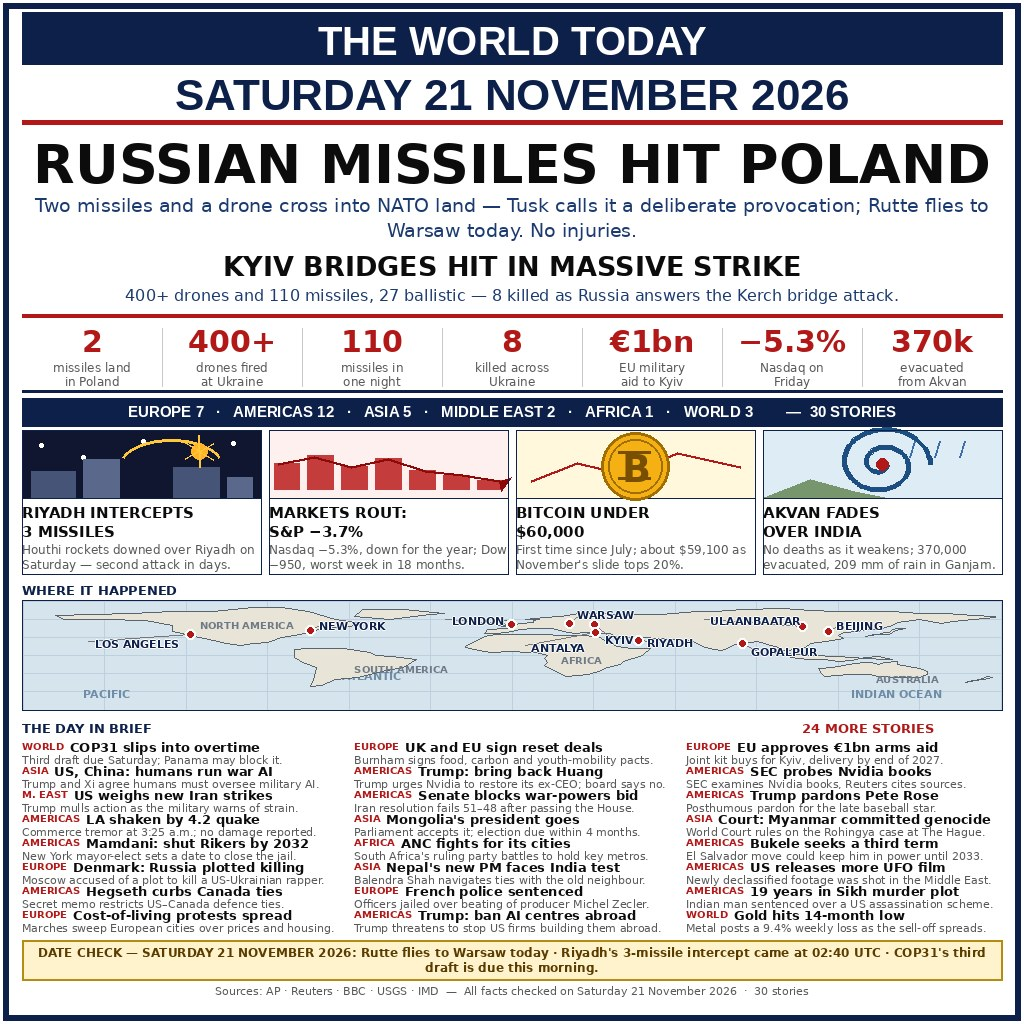
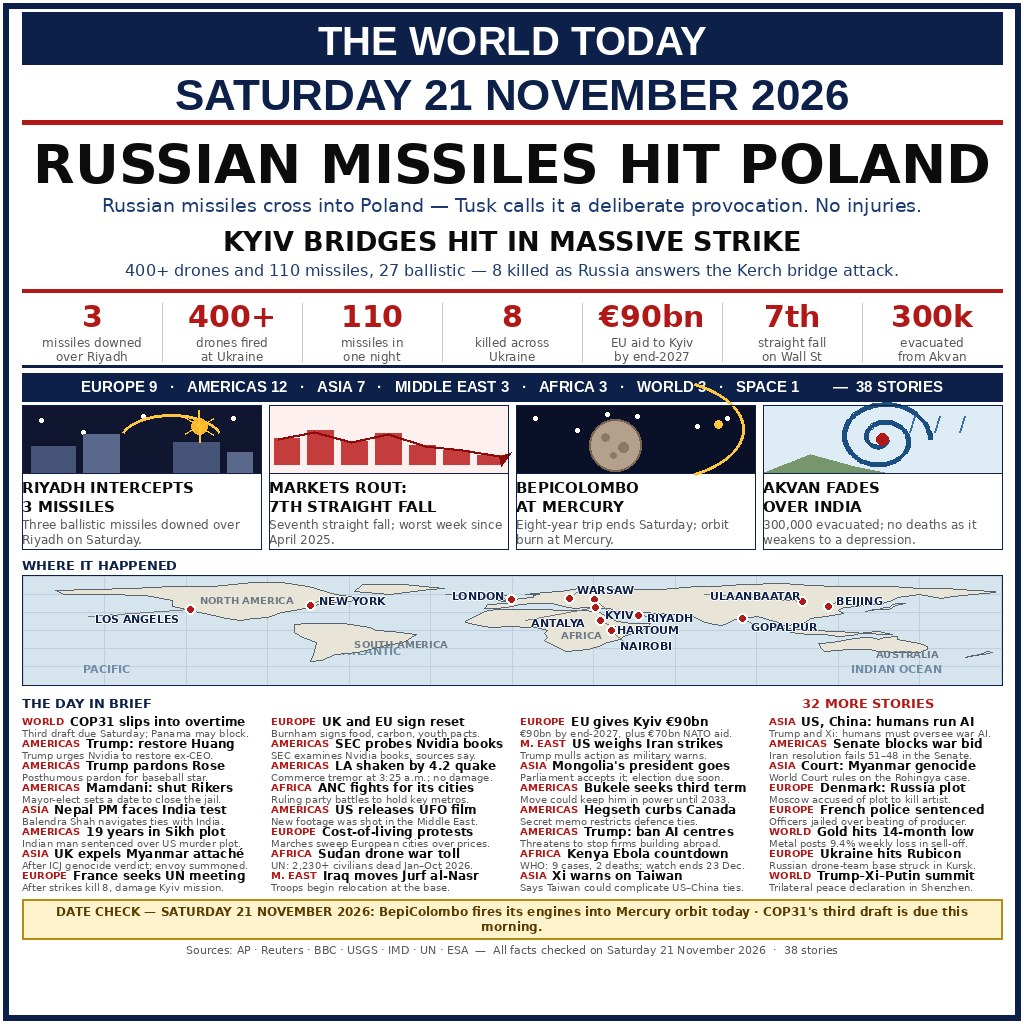
Saturday 21 November 2026: 38 stories, seven regions — Russian missiles hit Poland, Kyiv bridges struck, Riyadh intercepts, BepiColombo at Mercury

diff --git a/build_front.py b/build_front.py
@@ -44,98 +44,114 @@ SR = lambda s: font(LDIR + "LiberationSans-Regular.ttf", s)
 # ---------------------------------------------------------------- data
 
 HERO = ["RUSSIAN MISSILES HIT POLAND"]
-HERO_DECK = ("Two missiles and a drone cross into NATO land \u2014 Tusk calls it a deliberate "
-              "provocation; Rutte flies to Warsaw today. No injuries.")
+HERO_DECK = ("Russian missiles cross into Poland \u2014 Tusk calls it a deliberate "
+              "provocation. No injuries.")
 SUBHERO = "KYIV BRIDGES HIT IN MASSIVE STRIKE"
 SUBHERO_DECK = ("400+ drones and 110 missiles, 27 ballistic \u2014 8 killed as Russia answers "
                  "the Kerch bridge attack.")
 
 NUMBERS = [
-    ("2", "missiles land\nin Poland"),
+    ("3", "missiles downed\nover Riyadh"),
     ("400+", "drones fired\nat Ukraine"),
     ("110", "missiles in\none night"),
     ("8", "killed across\nUkraine"),
-    ("\u20ac1bn", "EU military\naid to Kyiv"),
-    ("\u22125.3%", "Nasdaq on\nFriday"),
-    ("370k", "evacuated\nfrom Akvan"),
+    ("\u20ac90bn", "EU aid to Kyiv\nby end-2027"),
+    ("7th", "straight fall\non Wall St"),
+    ("300k", "evacuated\nfrom Akvan"),
 ]
 
-REGIONS = [("EUROPE", 7), ("AMERICAS", 12), ("ASIA", 5),
-           ("MIDDLE EAST", 2), ("AFRICA", 1), ("WORLD", 3)]
-TOTAL_STORIES = 30  # 2 heroes + 4 features + 24 briefs
+REGIONS = [("EUROPE", 9), ("AMERICAS", 12), ("ASIA", 7),
+           ("MIDDLE EAST", 3), ("AFRICA", 3), ("WORLD", 3), ("SPACE", 1)]
+TOTAL_STORIES = 38  # 2 heroes + 4 features + 32 briefs
 
 FEATURES = [
     ("RIYADH INTERCEPTS\n3 MISSILES",
-     "Houthi rockets downed over Riyadh on Saturday \u2014 second attack in days.",
+     "Three ballistic missiles downed over Riyadh on Saturday.",
      "riyadh"),
-    ("MARKETS ROUT:\nS&P \u22123.7%",
-     "Nasdaq \u22125.3%, down for the year; Dow \u2212950, worst week in 18 months.",
+    ("MARKETS ROUT:\n7TH STRAIGHT FALL",
+     "Seventh straight fall; worst week since April 2025.",
      "markets"),
-    ("BITCOIN UNDER\n$60,000",
-     "First time since July; about $59,100 as November's slide tops 20%.",
-     "bitcoin"),
+    ("BEPICOLOMBO\nAT MERCURY",
+     "Eight-year trip ends Saturday; orbit burn at Mercury.",
+     "space"),
     ("AKVAN FADES\nOVER INDIA",
-     "No deaths as it weakens; 370,000 evacuated, 209 mm of rain in Ganjam.",
+     "300,000 evacuated; no deaths as it weakens to a depression.",
      "cyclone"),
 ]
 
-# (headline, deck, region) — 24 briefs, one story each.
+# (headline, deck, region) — 32 briefs, one story each.
 BRIEFS = [
     ("COP31 slips into overtime",
-     "Third draft due Saturday; Panama may block it.", "WORLD"),
-    ("UK and EU sign reset deals",
-     "Burnham signs food, carbon and youth-mobility pacts.", "EUROPE"),
-    ("EU approves \u20ac1bn arms aid",
-     "Joint kit buys for Kyiv, delivery by end of 2027.", "EUROPE"),
-    ("US, China: humans run war AI",
-     "Trump and Xi agree humans must oversee military AI.", "ASIA"),
-    ("Trump: bring back Huang",
-     "Trump urges Nvidia to restore its ex-CEO; board says no.", "AMERICAS"),
+     "Third draft due Saturday; Panama may block.", "WORLD"),
+    ("UK and EU sign reset",
+     "Burnham signs food, carbon, youth pacts.", "EUROPE"),
+    ("EU gives Kyiv \u20ac90bn",
+     "\u20ac90bn by end-2027, plus \u20ac70bn NATO aid.", "EUROPE"),
+    ("US, China: humans run AI",
+     "Trump and Xi: humans must oversee war AI.", "ASIA"),
+    ("Trump: restore Huang",
+     "Trump urges Nvidia to restore ex-CEO.", "AMERICAS"),
     ("SEC probes Nvidia books",
-     "SEC examines Nvidia books, Reuters cites sources.", "AMERICAS"),
-    ("US weighs new Iran strikes",
-     "Trump mulls action as the military warns of strain.", "M. EAST"),
-    ("Senate blocks war-powers bid",
-     "Iran resolution fails 51\u201348 after passing the House.", "AMERICAS"),
-    ("Trump pardons Pete Rose",
-     "Posthumous pardon for the late baseball star.", "AMERICAS"),
+     "SEC examines Nvidia books, sources say.", "AMERICAS"),
+    ("US weighs Iran strikes",
+     "Trump mulls action as military warns.", "M. EAST"),
+    ("Senate blocks war bid",
+     "Iran resolution fails 51\u201348 in the Senate.", "AMERICAS"),
+    ("Trump pardons Rose",
+     "Posthumous pardon for baseball star.", "AMERICAS"),
     ("LA shaken by 4.2 quake",
-     "Commerce tremor at 3:25 a.m.; no damage reported.", "AMERICAS"),
+     "Commerce tremor at 3:25 a.m.; no damage.", "AMERICAS"),
     ("Mongolia's president goes",
-     "Parliament accepts it; election due within 4 months.", "ASIA"),
-    ("Court: Myanmar committed genocide",
-     "World Court rules on the Rohingya case at The Hague.", "ASIA"),
-    ("Mamdani: shut Rikers by 2032",
-     "New York mayor-elect sets a date to close the jail.", "AMERICAS"),
+     "Parliament accepts it; election due soon.", "ASIA"),
+    ("Court: Myanmar genocide",
+     "World Court rules on the Rohingya case.", "ASIA"),
+    ("Mamdani: shut Rikers",
+     "Mayor-elect sets a date to close the jail.", "AMERICAS"),
     ("ANC fights for its cities",
-     "South Africa's ruling party battles to hold key metros.", "AFRICA"),
-    ("Bukele seeks a third term",
-     "El Salvador move could keep him in power until 2033.", "AMERICAS"),
-    ("Denmark: Russia plotted killing",
-     "Moscow accused of a plot to kill a US-Ukrainian rapper.", "EUROPE"),
-    ("Nepal's new PM faces India test",
-     "Balendra Shah navigates ties with the old neighbour.", "ASIA"),
-    ("US releases more UFO film",
-     "Newly declassified footage was shot in the Middle East.", "AMERICAS"),
-    ("Hegseth curbs Canada ties",
-     "Secret memo restricts US\u2013Canada defence ties.", "AMERICAS"),
+     "Ruling party battles to hold key metros.", "AFRICA"),
+    ("Bukele seeks third term",
+     "Move could keep him in power until 2033.", "AMERICAS"),
+    ("Denmark: Russia plot",
+     "Moscow accused of plot to kill artist.", "EUROPE"),
+    ("Nepal PM faces India test",
+     "Balendra Shah navigates ties with India.", "ASIA"),
+    ("US releases UFO film",
+     "New footage was shot in the Middle East.", "AMERICAS"),
+    ("Hegseth curbs Canada",
+     "Secret memo restricts defence ties.", "AMERICAS"),
     ("French police sentenced",
-     "Officers jailed over beating of producer Michel Zecler.", "EUROPE"),
-    ("19 years in Sikh murder plot",
-     "Indian man sentenced over a US assassination scheme.", "AMERICAS"),
-    ("Cost-of-living protests spread",
-     "Marches sweep European cities over prices and housing.", "EUROPE"),
-    ("Trump: ban AI centres abroad",
-     "Trump threatens to stop US firms building them abroad.", "AMERICAS"),
+     "Officers jailed over beating of producer.", "EUROPE"),
+    ("19 years in Sikh plot",
+     "Indian man sentenced over US murder plot.", "AMERICAS"),
+    ("Cost-of-living protests",
+     "Marches sweep European cities over prices.", "EUROPE"),
+    ("Trump: ban AI centres",
+     "Threatens to stop firms building abroad.", "AMERICAS"),
     ("Gold hits 14-month low",
-     "Metal posts a 9.4% weekly loss as the sell-off spreads.", "WORLD"),
+     "Metal posts 9.4% weekly loss in sell-off.", "WORLD"),
+    # --- 8 new verified 21-Nov stories (v2) ---
+    ("UK expels Myanmar attach\u00e9",
+     "After ICJ genocide verdict; envoy summoned.", "ASIA"),
+    ("Sudan drone war toll",
+     "UN: 2,230+ civilians dead Jan\u2013Oct 2026.", "AFRICA"),
+    ("Kenya Ebola countdown",
+     "WHO: 9 cases, 2 deaths; watch ends 23 Dec.", "AFRICA"),
+    ("Ukraine hits Rubicon",
+     "Russian drone-team base struck in Kursk.", "EUROPE"),
+    ("France seeks UN meeting",
+     "After strikes kill 8, damage Kyiv mission.", "EUROPE"),
+    ("Iraq moves Jurf al-Nasr",
+     "Troops begin relocation at the base.", "M. EAST"),
+    ("Xi warns on Taiwan",
+     "Says Taiwan could complicate US\u2013China ties.", "ASIA"),
+    ("Trump\u2013Xi\u2013Putin summit",
+     "Trilateral peace declaration in Shenzhen.", "WORLD"),
 ]
 
-DATE_CHECK = ("DATE CHECK \u2014 SATURDAY 21 NOVEMBER 2026:  Rutte flies to Warsaw today  \u00b7  "
-               "Riyadh's 3-missile intercept came at 02:40 UTC  \u00b7  COP31's third draft is due "
-               "this morning.")
-FOOTER = ("Sources: AP \u00b7 Reuters \u00b7 BBC \u00b7 USGS \u00b7 IMD  \u2014  All facts checked on "
-          "Saturday 21 November 2026  \u00b7  30 stories")
+DATE_CHECK = ("DATE CHECK \u2014 SATURDAY 21 NOVEMBER 2026:  BepiColombo fires its engines "
+               "into Mercury orbit today  \u00b7  COP31's third draft is due this morning.")
+FOOTER = ("Sources: AP \u00b7 Reuters \u00b7 BBC \u00b7 USGS \u00b7 IMD \u00b7 UN \u00b7 ESA  \u2014  All facts checked on "
+          "Saturday 21 November 2026  \u00b7  38 stories")
 
 # Coarse continent outlines as (lon, lat) — drawn equirectangular, my own roughs.
 CONTINENTS = {
@@ -192,6 +208,8 @@ PINS = [
     (106.9, 47.9, "ULAANBAATAR", -92, -12),
     (-118.2, 34.0, "LOS ANGELES", -96, 2),
     (-74.0, 40.7, "NEW YORK", 8, -12),
+    (32.5, 15.6, "KHARTOUM", 8, 2),
+    (36.8, -1.3, "NAIROBI", 8, 8),
 ]
 
 # ---------------------------------------------------------------- helpers
@@ -270,6 +288,20 @@ def draw_feature_art(d, kind, x, y, w, h):
         d.text((cx - 13, cy - 20), "B", font=B(38), fill=(120, 78, 0))
         d.line([(cx - 17, cy - 14), (cx + 15, cy - 14)], fill=(120, 78, 0), width=3)
         d.line([(cx - 17, cy + 12), (cx + 15, cy + 12)], fill=(120, 78, 0), width=3)
+    elif kind == "space":
+        d.rectangle([x, y, x + w, y + h], fill=(10, 16, 40))
+        for sx, sy in [(18, 12), (60, 24), (120, 10), (180, 20), (210, 12), (90, 8)]:
+            d.ellipse([x + sx - 2, y + sy - 2, x + sx + 2, y + sy + 2], fill=(255, 255, 255))
+        # orbit arc + spacecraft
+        d.arc([x + 30, y - 30, x + w - 10, y + h + 10], 300, 60, fill=(255, 200, 60), width=3)
+        d.ellipse([x + w - 40, y + 14, x + w - 32, y + 22], fill=(255, 200, 60))
+        # Mercury disc with craters
+        cx, cy, r = x + w // 2 - 20, y + h // 2 + 6, 26
+        d.ellipse([cx - r, cy - r, cx + r, cy + r], fill=(180, 160, 140),
+                  outline=(120, 100, 80), width=2)
+        for ox, oy, rr in [(-10, -8, 4), (8, 2, 5), (-2, 10, 3)]:
+            d.ellipse([cx + ox - rr, cy + oy - rr, cx + ox + rr, cy + oy + rr],
+                      fill=(140, 120, 100))
     elif kind == "cyclone":
         d.rectangle([x, y, x + w, y + h], fill=(222, 236, 246))
         cx, cy = x + w // 2, y + h // 2
@@ -420,24 +452,24 @@ def build():
     draw_map(d, MARGIN + 1, y + 1, CW - 2, map_h - 2)
     y += map_h + 10
 
-    # --- briefs
+    # --- briefs: 4 columns x 8 rows
     d.text((MARGIN, y), "THE DAY IN BRIEF", font=B(13), fill=NAVY)
-    d.text((W - MARGIN - 200, y), "24 MORE STORIES", font=B(13), fill=RED)
+    d.text((W - MARGIN - 200, y), "32 MORE STORIES", font=B(13), fill=RED)
     y += 20
-    assert len(BRIEFS) == 24, f"expected 24 briefs, got {len(BRIEFS)}"
-    col_w = (CW - 2 * 16) / 3
-    row_h = 24
+    assert len(BRIEFS) == 32, f"expected 32 briefs, got {len(BRIEFS)}"
+    col_w = (CW - 3 * 16) / 4
+    row_h = 22
     for idx, (head, deck, region) in enumerate(BRIEFS):
-        col, row = idx % 3, idx // 3
+        col, row = idx % 4, idx // 4
         bx = MARGIN + col * (col_w + 16)
         by = y + row * row_h
         tag = region.upper()
         d.text((bx, by), tag, font=B(10), fill=RED)
         hx = bx + d.textlength(tag, font=B(10)) + 6
-        fit_check(d, head, B(13), bx + col_w - hx, f"brief head {head}")
-        d.text((hx, by - 1), head, font=B(13), fill=BLACK)
-        fit_check(d, deck, R(11), col_w, f"brief deck {deck}")
-        d.text((bx, by + 13), deck, font=R(11), fill=GREY)
+        fit_check(d, head, B(12), bx + col_w - hx, f"brief head {head}")
+        d.text((hx, by - 1), head, font=B(12), fill=BLACK)
+        fit_check(d, deck, R(10), col_w, f"brief deck {deck}")
+        d.text((bx, by + 12), deck, font=R(10), fill=GREY)
     y += 8 * row_h + 8
 
     # --- date check box
